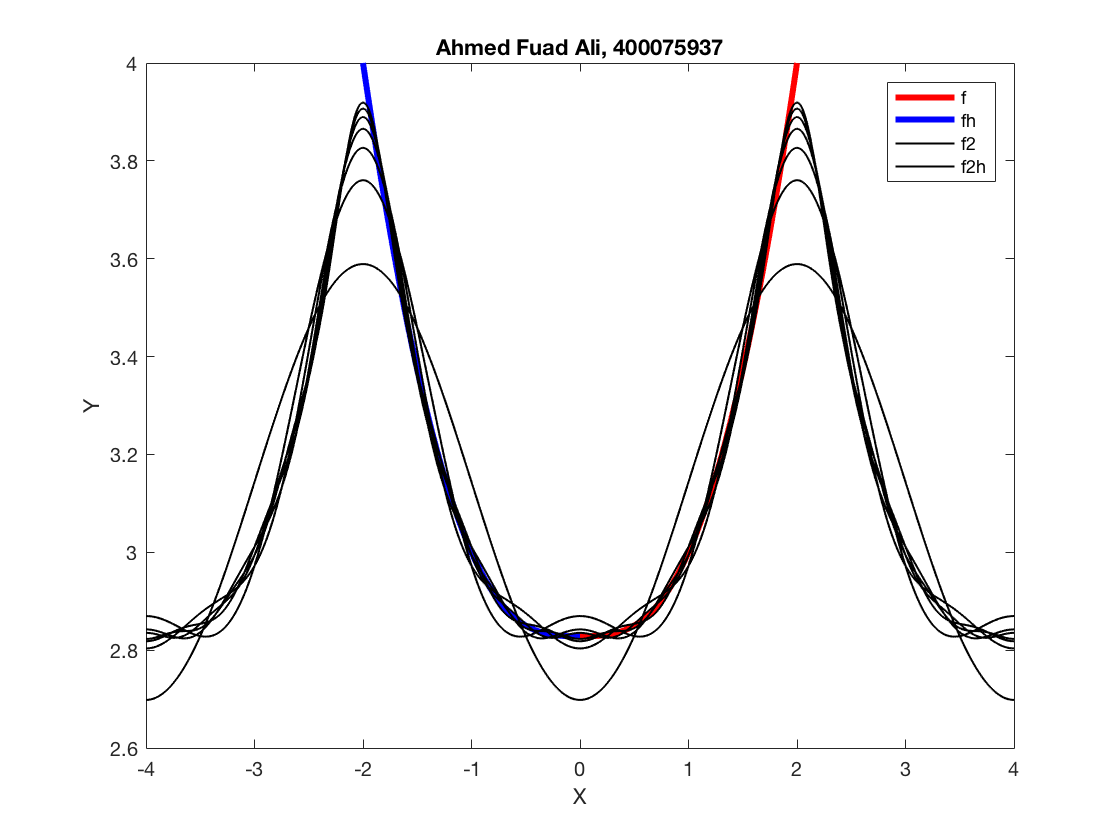
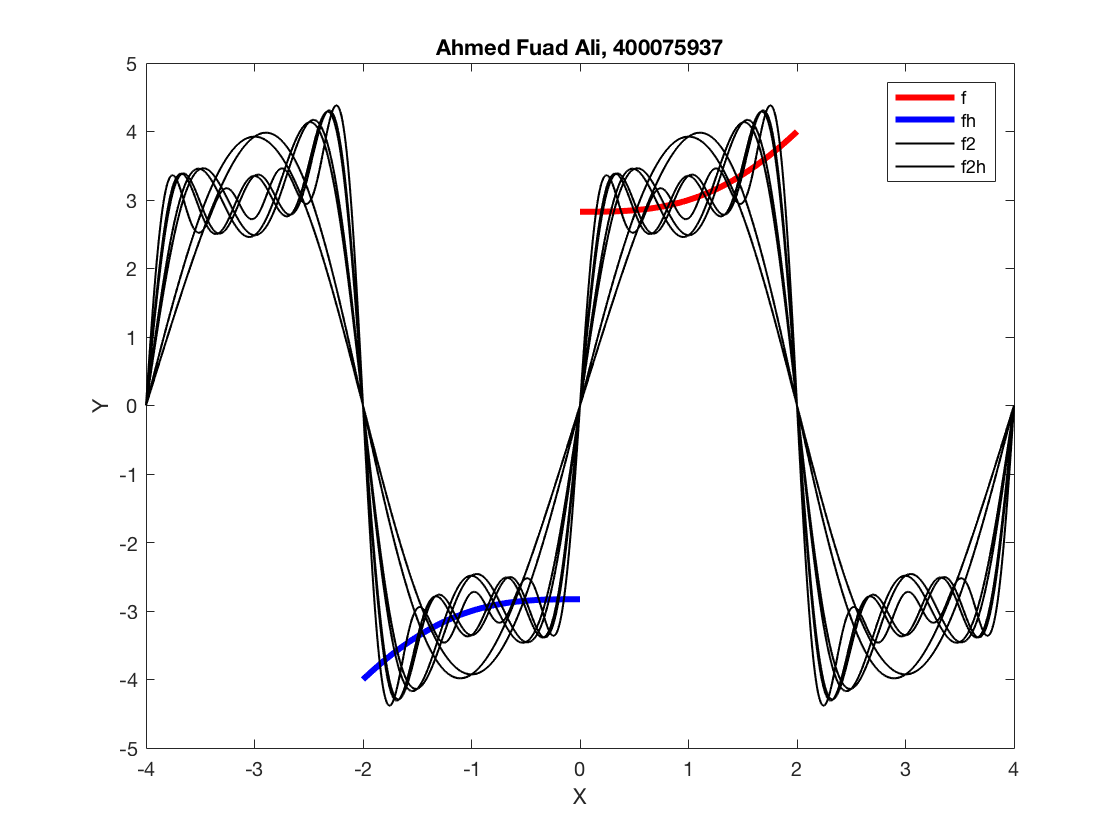
finished lab 5 with fourier transforms

diff --git a/lab5.m b/lab5.m
@@ -1,36 +1,30 @@
+clc; close all; clear all;
 %% Question 1
-%Format will be f(x) = ..., 0 < x < p (my p was 3)
-%truncated after 1,2..n terms, for me n = 7
+% plot the fourier transforms in the negative direction for all of them,
+% and also make sure to do it for even, odd and identity shift functions. 
+func1 = zeros(1,7); 
+x = linspace(0,2,201); 
 
-a = zeros(1,7); %7 terms so from 1 to 7 for me
+f = sqrt(8+x.^3); 
+x2 = linspace(0,-2,201);
+f2 = sqrt(8+x2.^3); 
+a0 = 2/2*trapz(x,f);
 
-x = linspace(0,2,201); %200 elements for me and from 0 to 3
-%Function
-f = sqrt(8+x.^3); %The one which is given, does NOT change
-
-%Extension
-x2 = linspace(0,-2,201); %This is the extension
-f2 = sqrt(8-x2.^3); %ONLY THIS CHANGES FOR OTHER GRAPHS
-
-
-a0 = 2/2*trapz(x,f); %p = 3 so 2/p
-
-for n = 1:7 %7 curves for me
-    y = f.*cos(n*pi*x/2); %my p was 3 so its divided by 3 
-    a(n) = 2/2*trapz(x,y); %p = 3
-    %Bottom for part C    
+% they asked for 7 curves and my p was 2
+for j = 1:7 
+    y = f.*cos(2*j*pi*x/2);
+    func1(j) = 2/2*trapz(x,y); 
+    y1 = f.*sin (2*j*pi*x/2);
+    b(j) = 2/2*trapz(x,y1);
 end
 
-%Estimate values of fourier series of f
+fh = zeros(7,801);
+x3 = linspace(-4,4,801); 
 
-fh = zeros(7,801); %800 elements for fh and f2h
-x3 = linspace(-4,4,801); % 0 to 3 is 200, 3 to 6 is 400, so 800
-%change -6,6 according to your interval [it's given]
-
-
-for m = 1:7 %7 curves
-for n = 1:m %dont touch this
-    fh(m,:) = fh(m,:) + a(n)*cos(n*pi*x3/2); %p = 3 so x3/3 
+% now we actually need to get the fouriers
+for i = 1:7 
+for j = 1:i 
+    fh(i,:) = fh(i,:) + func1(j)*cos(2*j*pi*x3/2); %p = 3 so x3/3 
 end
 end
 
@@ -38,42 +32,49 @@ fh = a0/2 + fh;
  
 plot(x,f,'r','LineWidth',3);
 hold on;
-plot(x2,f2,'b','LineWidth',3);
+plot(x+2,f,'b','LineWidth',3);
 hold on;
 plot(x3,fh,'k','LineWidth',1);
 
 
-xlim = ([-4 4]);  %Change interval according to yours
+xlim = ([-4 4]);
 xlabel('X');
 ylabel('Y');
 title('Ahmed Fuad Ali, 400075937');
 legend('f','fh','f2','f2h','Location','best');
 
-%----------- end
 
+
+%% Question 2
+theerror = fh(7,501);
+theoreticalanswer = sqrt(9); 
+A = abs(theoreticalanswer-theerror);
 
 
 %% Question 3
 % plot the construction of a discrete fourier transform of the given
 % function 
+
+% first we want to set up our environment and initialize some variables
 clc; close all; clear all;
-
-
 x = linspace(0,2*pi,200);
-
 N = length(x);
+
+% this was my function
 f = 9*sin(15*pi*x) + 2*cos(8*pi*x);
 
+% now we need to use the stuff from the tutorial 
 F = fft(f); 
 
 abs_F = abs(fftshift(F));
 alpha = (0:N-1)-(N/2);
 plot(alpha,abs_F);
 
-%Use log scale
-
+% now plot it
 semilogy(alpha,abs_F);
-
 title('Ahmed Fuad Ali, 400075937');
 xlabel('x');
 ylabel('y');
+
+
+
